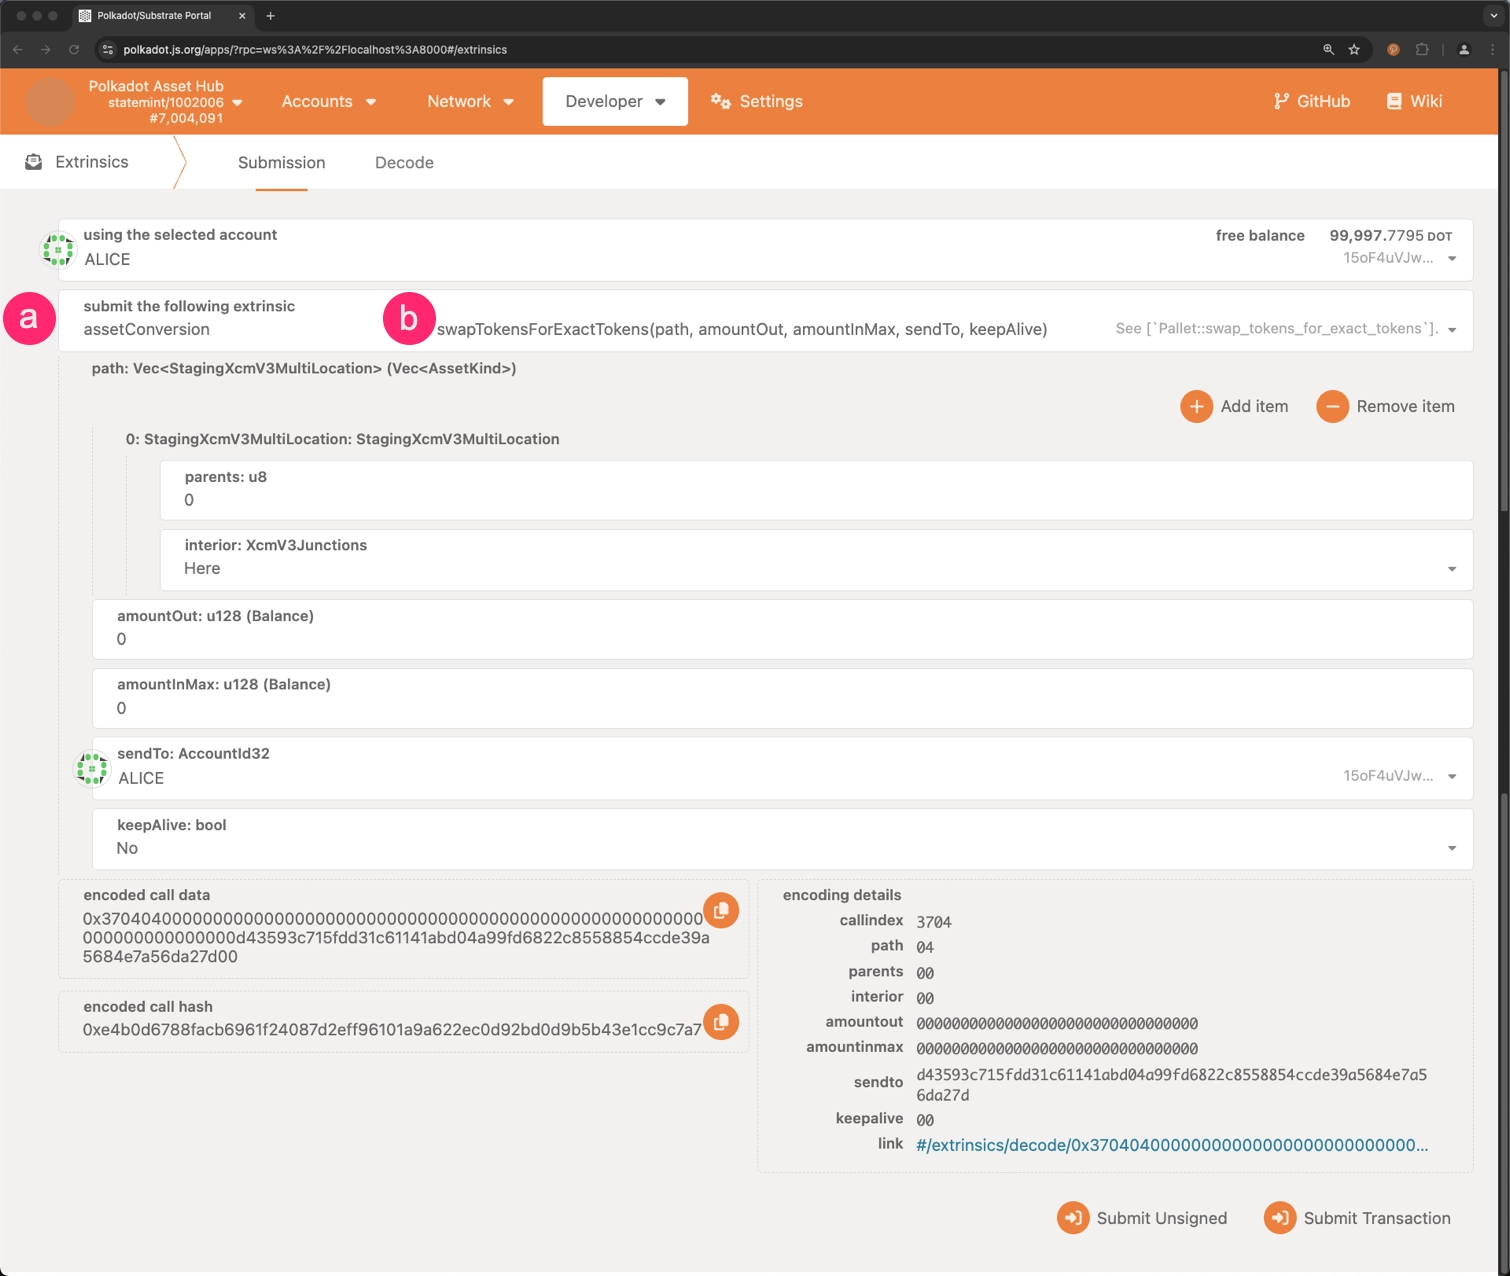
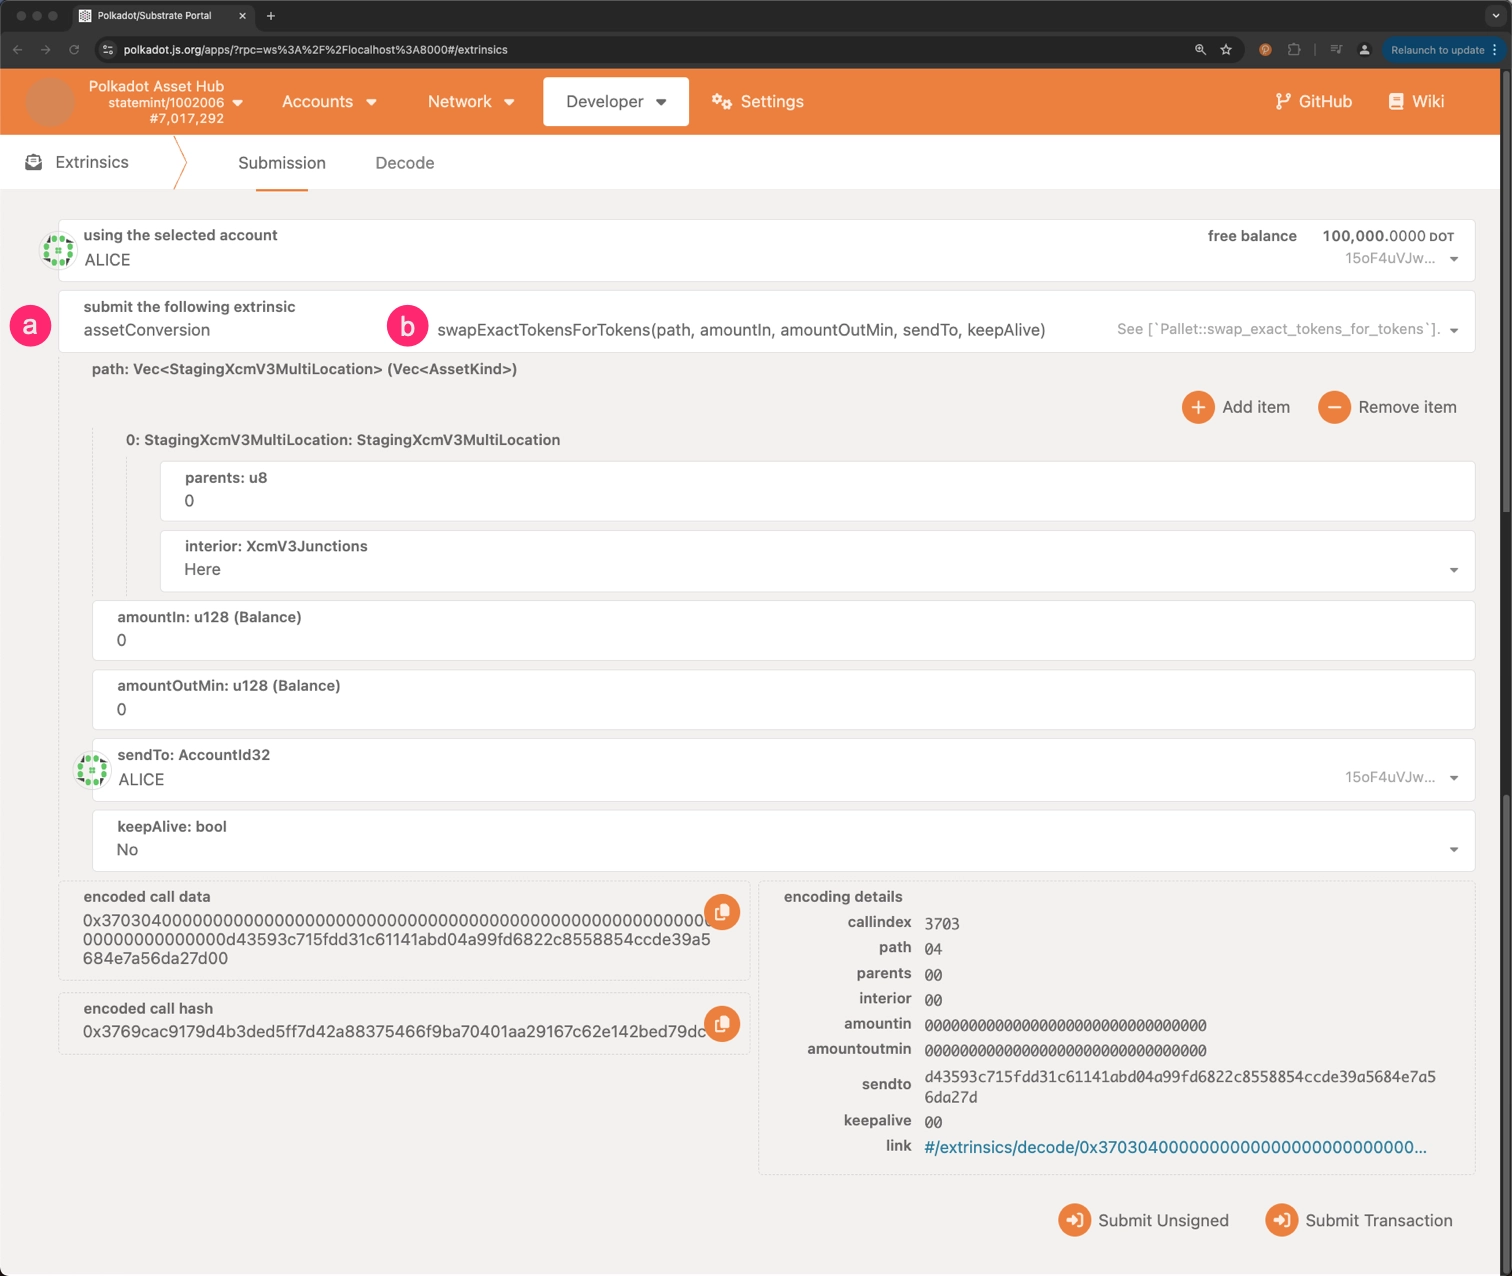
fix: updating asset conversion image

diff --git a/docs/build-on-polkadot/parachains/asset-hub/asset-conversion.md b/docs/build-on-polkadot/parachains/asset-hub/asset-conversion.md
@@ -103,7 +103,7 @@ To add liquidity to a pool, follow these steps:
 
         ![Extrinsics Section](/polkadot-ecosystem-docs-draft/images/building-on-polkadot/parachains/asset-hub/asset-conversion/asset-conversion-1.webp)
 
-2. Choose the **assetConversion** pallet and click on the **add_liquidity** extrinsic
+2. Choose the **assetConversion** pallet and click on the **addLiquidity** extrinsic
       1. Select the **assetConversion** pallet
       2. Choose the **addLiquidity** extrinsic from the list of available extrinsics
 
@@ -158,7 +158,7 @@ To swap assets for an exact amount of tokens, follow these steps:
 
         ![Extrinsics Section](/polkadot-ecosystem-docs-draft/images/building-on-polkadot/parachains/asset-hub/asset-conversion/asset-conversion-1.webp)
 
-2. Choose the **AssetConversion** pallet and click on the **swapForExactTokens** extrinsic
+2. Choose the **AssetConversion** pallet and click on the **swapExactTokensForTokens** extrinsic
       1. Select the **AssetConversion** pallet
       2. Choose the **swapExactTokensForTokens** extrinsic from the list of available extrinsics
 
